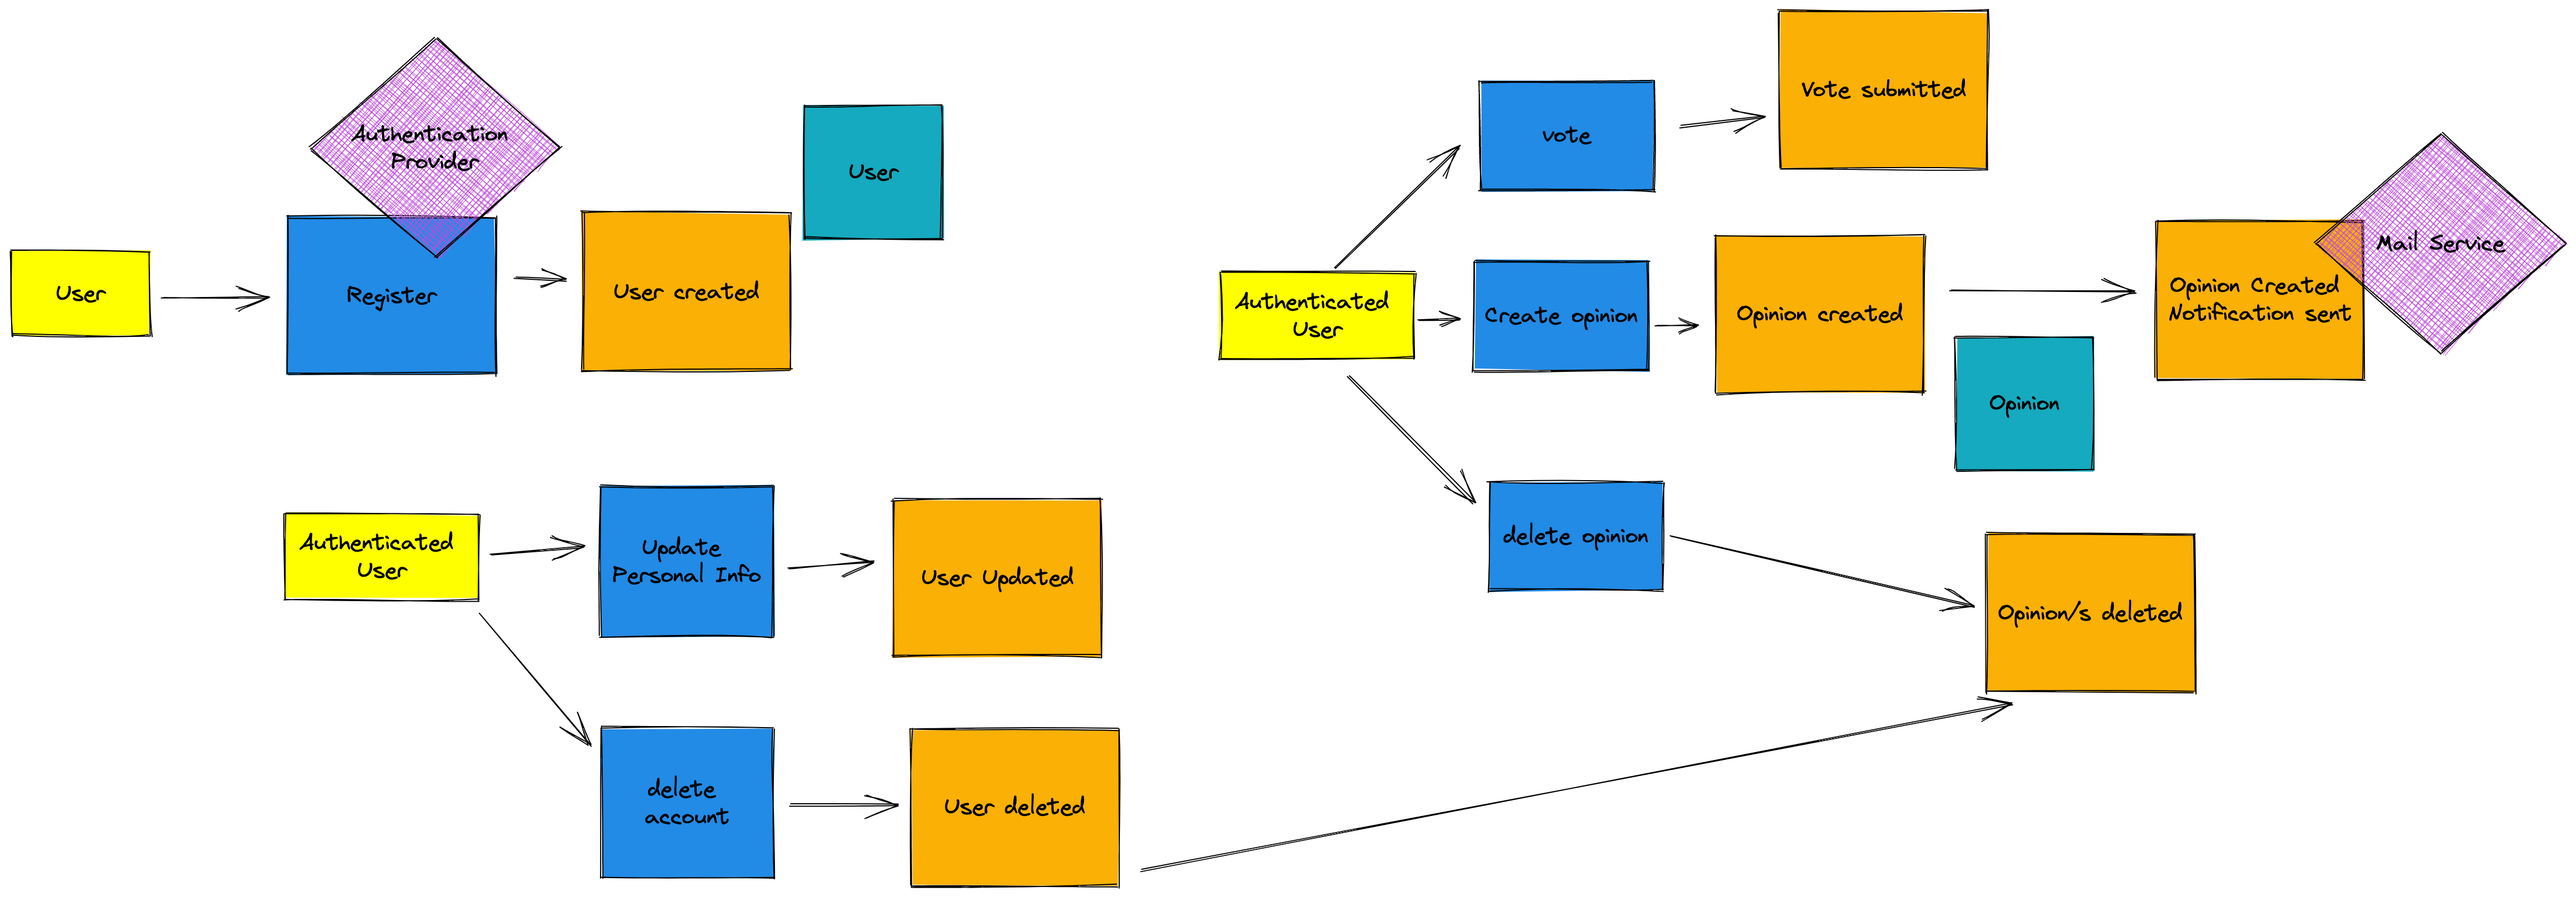
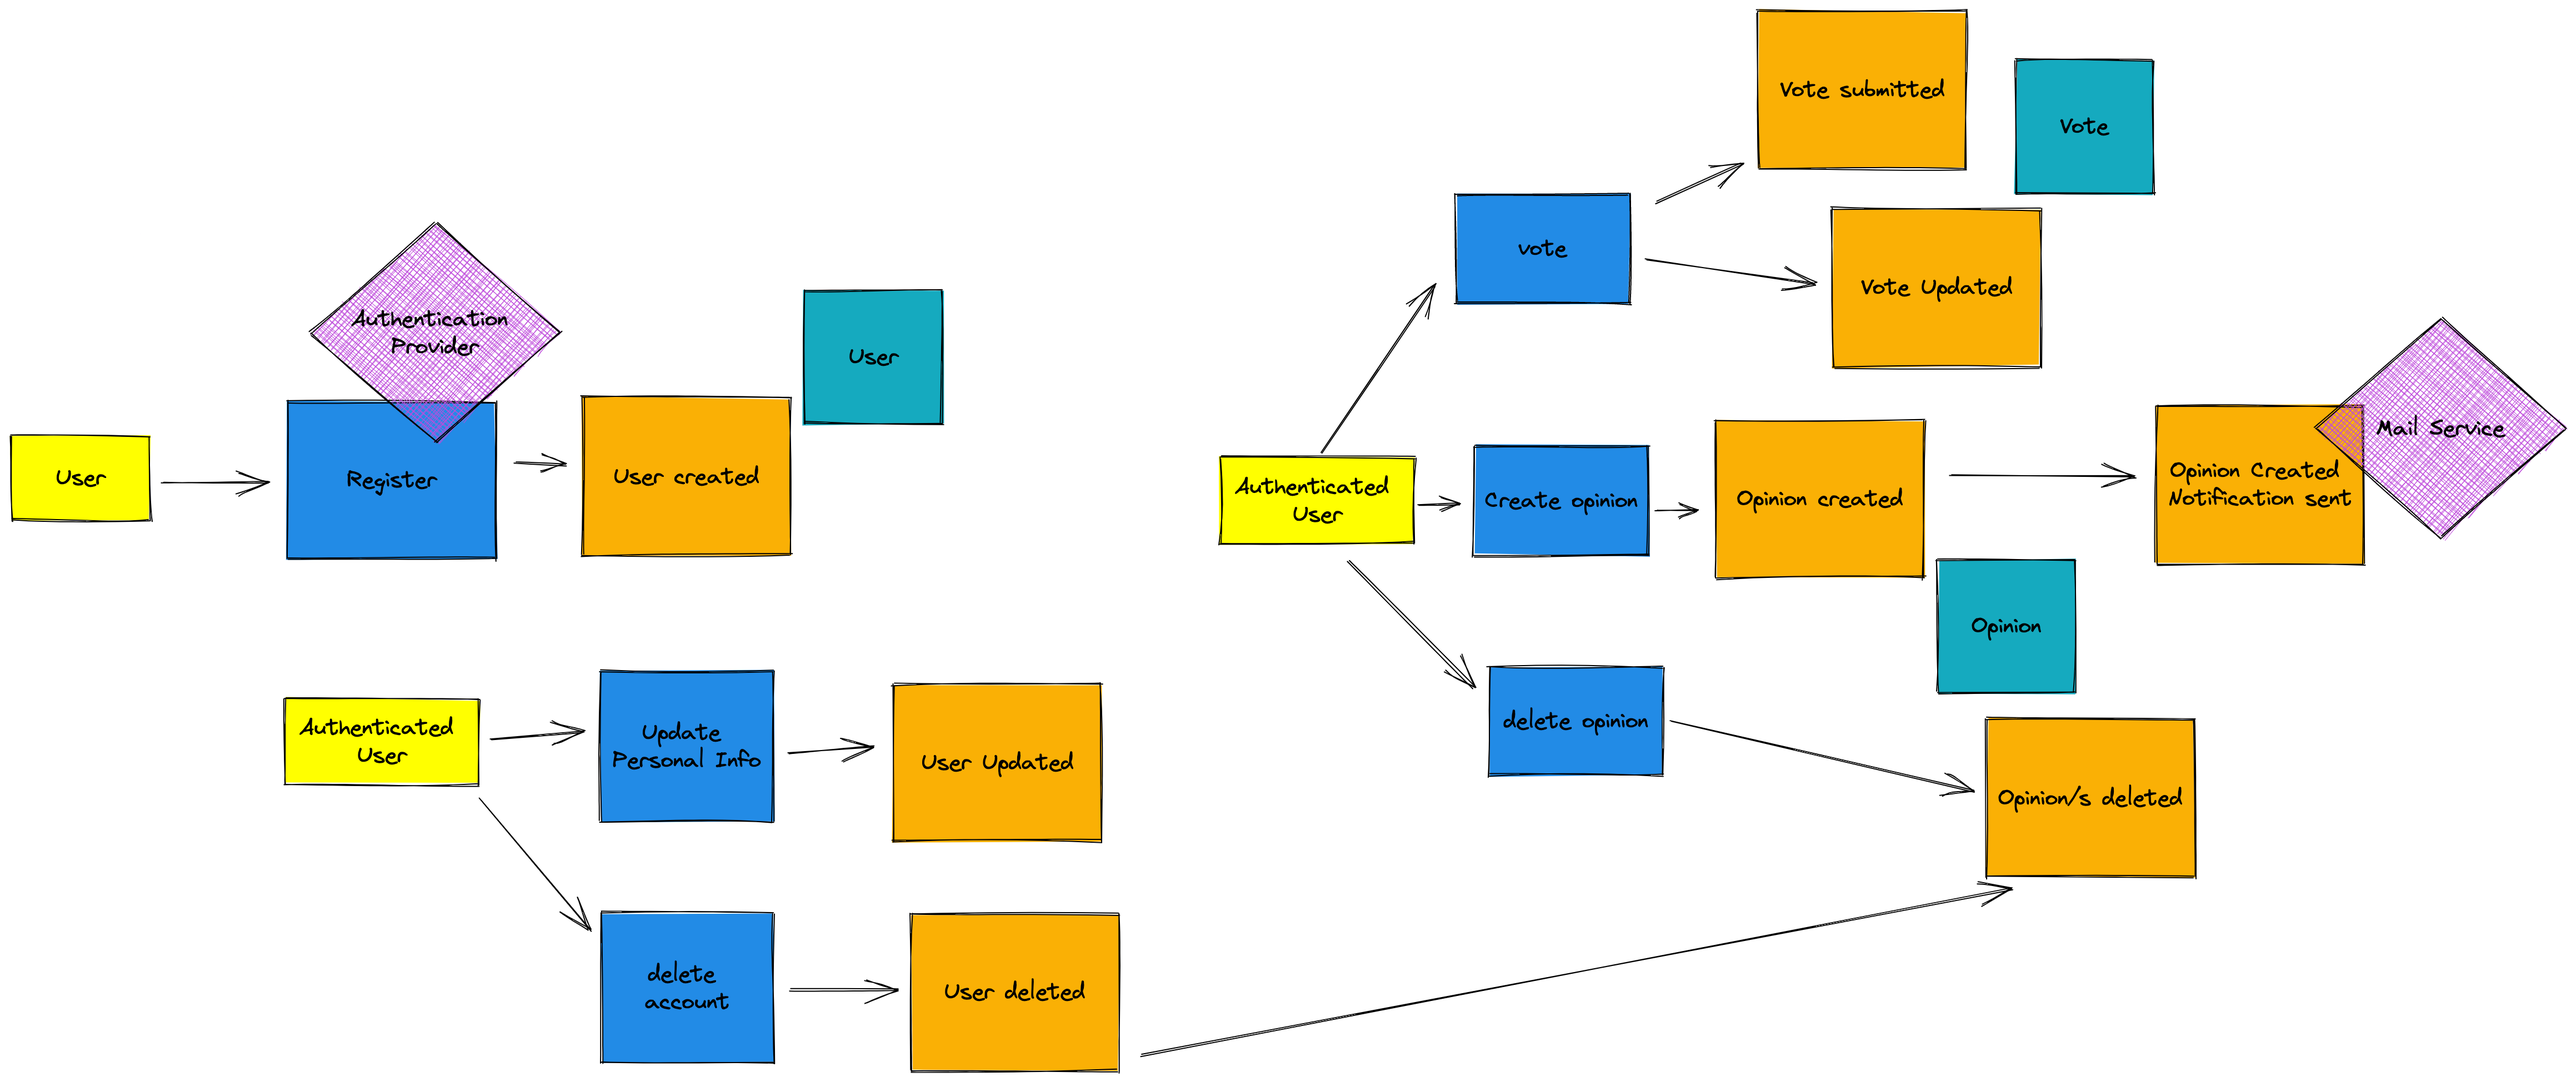
feat(backend): add entities, service and repo definition for opinion and vote

diff --git a/backend/internal/opinions/application/entities.go b/backend/internal/opinions/application/entities.go
@@ -1,0 +1,65 @@
+package application
+
+import "time"
+
+// OpinionId unique identifier for an opinion in the system
+type OpinionId string
+
+// UserId unique identifier for an user in the system
+type UserId string
+
+// Opinion is submitted by an authenticated user.
+// Only the owner or the admin is able to delete the opinion.
+// If a User gets deleted in the system, all related opinions should be deleted too.
+type Opinion struct {
+	ID        OpinionId
+	Owner     UserId
+	CreatedAt time.Time
+	Statement string
+}
+
+// OpinionCreateDTO holds required information to perform a create action on a opinion
+type OpinionCreateDTO struct {
+	Statement string
+}
+
+// Vote represents a users agreement or disagreement on the given opinion.
+// A Vote can be created, updated or deleted.
+type Vote struct {
+	Agreement bool
+	Opinion   OpinionId
+	Voter     UserId
+	CreatedAt time.Time
+	UpdatedAt time.Time
+}
+
+// VoteCreateAndUpdateDTO holds required information to perform a create or update action on a vote
+type VoteCreateAndUpdateDTO struct {
+	Agreement bool
+	Opinion   OpinionId
+}
+
+// AuthenticatedUser is capable to perform actions on opinions and votes
+type AuthenticatedUser struct {
+	Id    UserId
+	Roles []string
+}
+
+// AuthorizedUser represents a user identity which is permitted to perform the action on the given resource
+type AuthorizedUser struct {
+	id       UserId
+	action   string
+	resource string
+}
+
+func (a AuthorizedUser) Id() UserId {
+	return a.id
+}
+
+func (a AuthorizedUser) Action() string {
+	return a.action
+}
+
+func (a AuthorizedUser) Resource() string {
+	return a.resource
+}

diff --git a/backend/internal/opinions/application/service.go b/backend/internal/opinions/application/service.go
@@ -1,0 +1,24 @@
+package application
+
+import (
+	"context"
+)
+
+type Service interface {
+	CreateOpinionCommand(ctx context.Context, user AuthenticatedUser, opinion OpinionCreateDTO) (Opinion, error)
+	DeleteOpinionCommand(ctx context.Context, user AuthenticatedUser, id OpinionId) error
+	HandleUserDeletionEvent(ctx context.Context, event any) error
+
+	CreateVoteCommand(ctx context.Context, user AuthenticatedUser, vote VoteCreateAndUpdateDTO) (Vote, error)
+	UpdateVoteCommand(ctx context.Context, user AuthenticatedUser, vote VoteCreateAndUpdateDTO) (Vote, error)
+	DeleteVoteCommand(ctx context.Context, user AuthenticatedUser, id OpinionId) (Vote, error)
+}
+
+type Repository interface {
+	CreateOpinion(ctx context.Context, user AuthorizedUser, opinion Opinion) error
+	DeleteOpinion(ctx context.Context, user AuthorizedUser, id OpinionId) error
+
+	CreateVote(ctx context.Context, user AuthenticatedUser, vote Vote) error
+	UpdateVote(ctx context.Context, user AuthenticatedUser, vote Vote) error
+	DeleteVote(ctx context.Context, user AuthenticatedUser, id OpinionId) error
+}

diff --git a/backend/cmd/main.go b/backend/cmd/main.go
@@ -1,0 +1,5 @@
+package main
+
+func main() {
+
+}

diff --git a/backend/internal/opinions/infrastructure/repository_sql_lite.go b/backend/internal/opinions/infrastructure/repository_sql_lite.go
@@ -1,0 +1,1 @@
+package infrastructure
